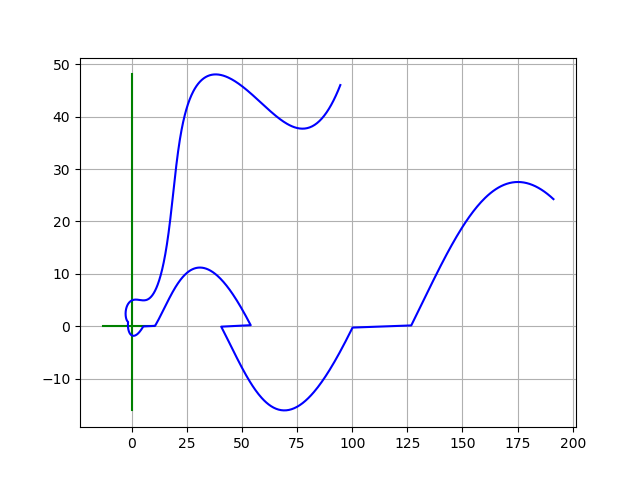
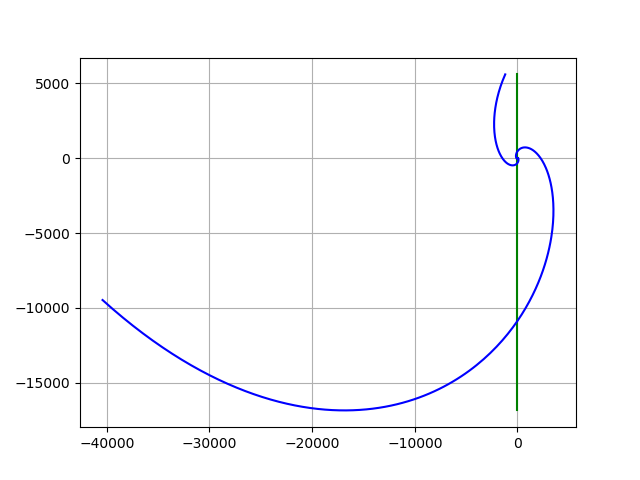
- Zoom is working - now after some time( like a minut) app is just crashing, idk why

diff --git a/view/app.py b/view/app.py
@@ -13,11 +13,8 @@ input_str = 'x'
 output_str = 'sin(x)+cos(x)'
 
 
-
-
-
 class ZoomDD(Button):
-    btnnm = StringProperty("Zoom")
+    zoom_text = StringProperty("100%")
 
     def __init__(self, **kwargs):
         super().__init__(**kwargs)
@@ -35,9 +32,9 @@ class ZoomDD(Button):
         self.bind(on_release=self.drop.open)
         self.drop.bind(on_select=self.change)
 
-    def change(self, x: str):
+    def change(self, instance, x: str):
         # print(x, instance)
-        self.btnnm = x
+        self.zoom_text = x
 
 
 class Plot(Widget):
@@ -90,7 +87,15 @@ class AppView(Widget):
         self.create_plots()
 
     def create_plots(self):
-        arr = input_function(self.input_str)
+        inz = self.ids.plot1.ids.zdd.zoom_text
+        outz = self.ids.plot2.ids.zdd.zoom_text
+
+        iz = int(inz[0:len(inz)-1])
+        oz = int(outz[0:len(outz)-1])
+
+        print(iz,' ',oz)
+
+        arr = input_function(self.input_str,iz/100,oz/100)
         transformation(self.output_str, arr)
         self.canvas.ask_update()
         self.ids.plot1.relode()

diff --git a/Controler.py b/Controler.py
@@ -1,4 +1,4 @@
-from model.parser import Parser,li
+from model.parser import Parser, li
 from graphicon import complex_plot, fun_plot
 import numpy as np
 from matplotlib.figure import Figure
@@ -12,16 +12,18 @@ def transformation(fun: str, arr: np.ndarray):
     fig.savefig("output.png")
 
 
-def input_function(fun: str, zoom: float = 1.0) -> np.ndarray:
+def input_function(fun: str, in_zoom: float = 1.0, out_zoom: float = 1.0) -> np.ndarray:
     p = Parser(fun)
 
-    arr = np.arange(-10 * zoom, 10 * zoom, 0.02)
+    arr = np.arange(-10 * in_zoom, 10 * in_zoom, 0.02)
+
+    out_arr = np.arange(-10 * out_zoom, 10 * out_zoom, 0.02)
 
     vf = np.vectorize(p.real2complex, otypes=[complex])
 
-    print(vf(2*li), fun)
+    print(vf(2 * li), fun)
 
-    res = vf(arr)
+    res = vf(out_arr)
 
     fig = fun_plot(p, arr)
 
